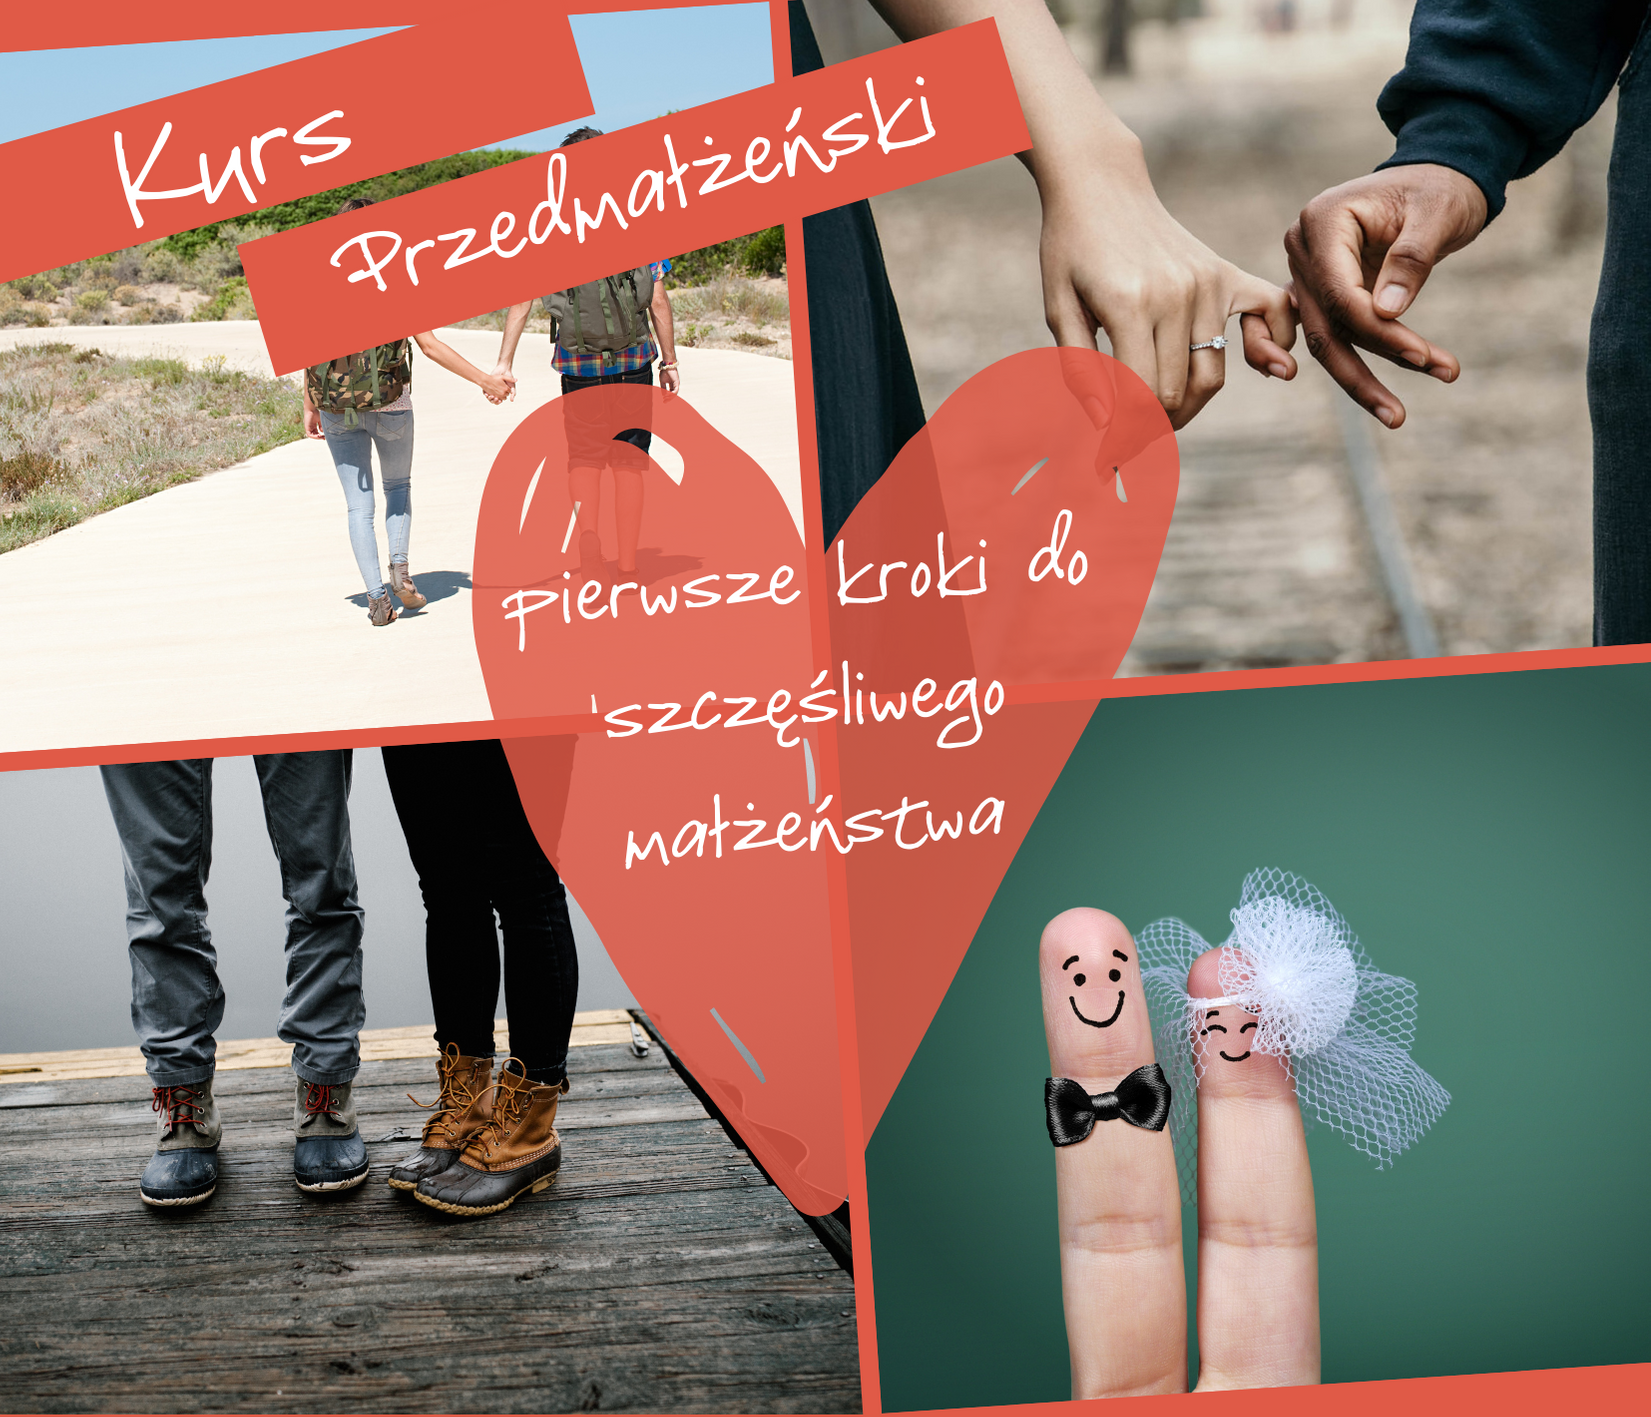
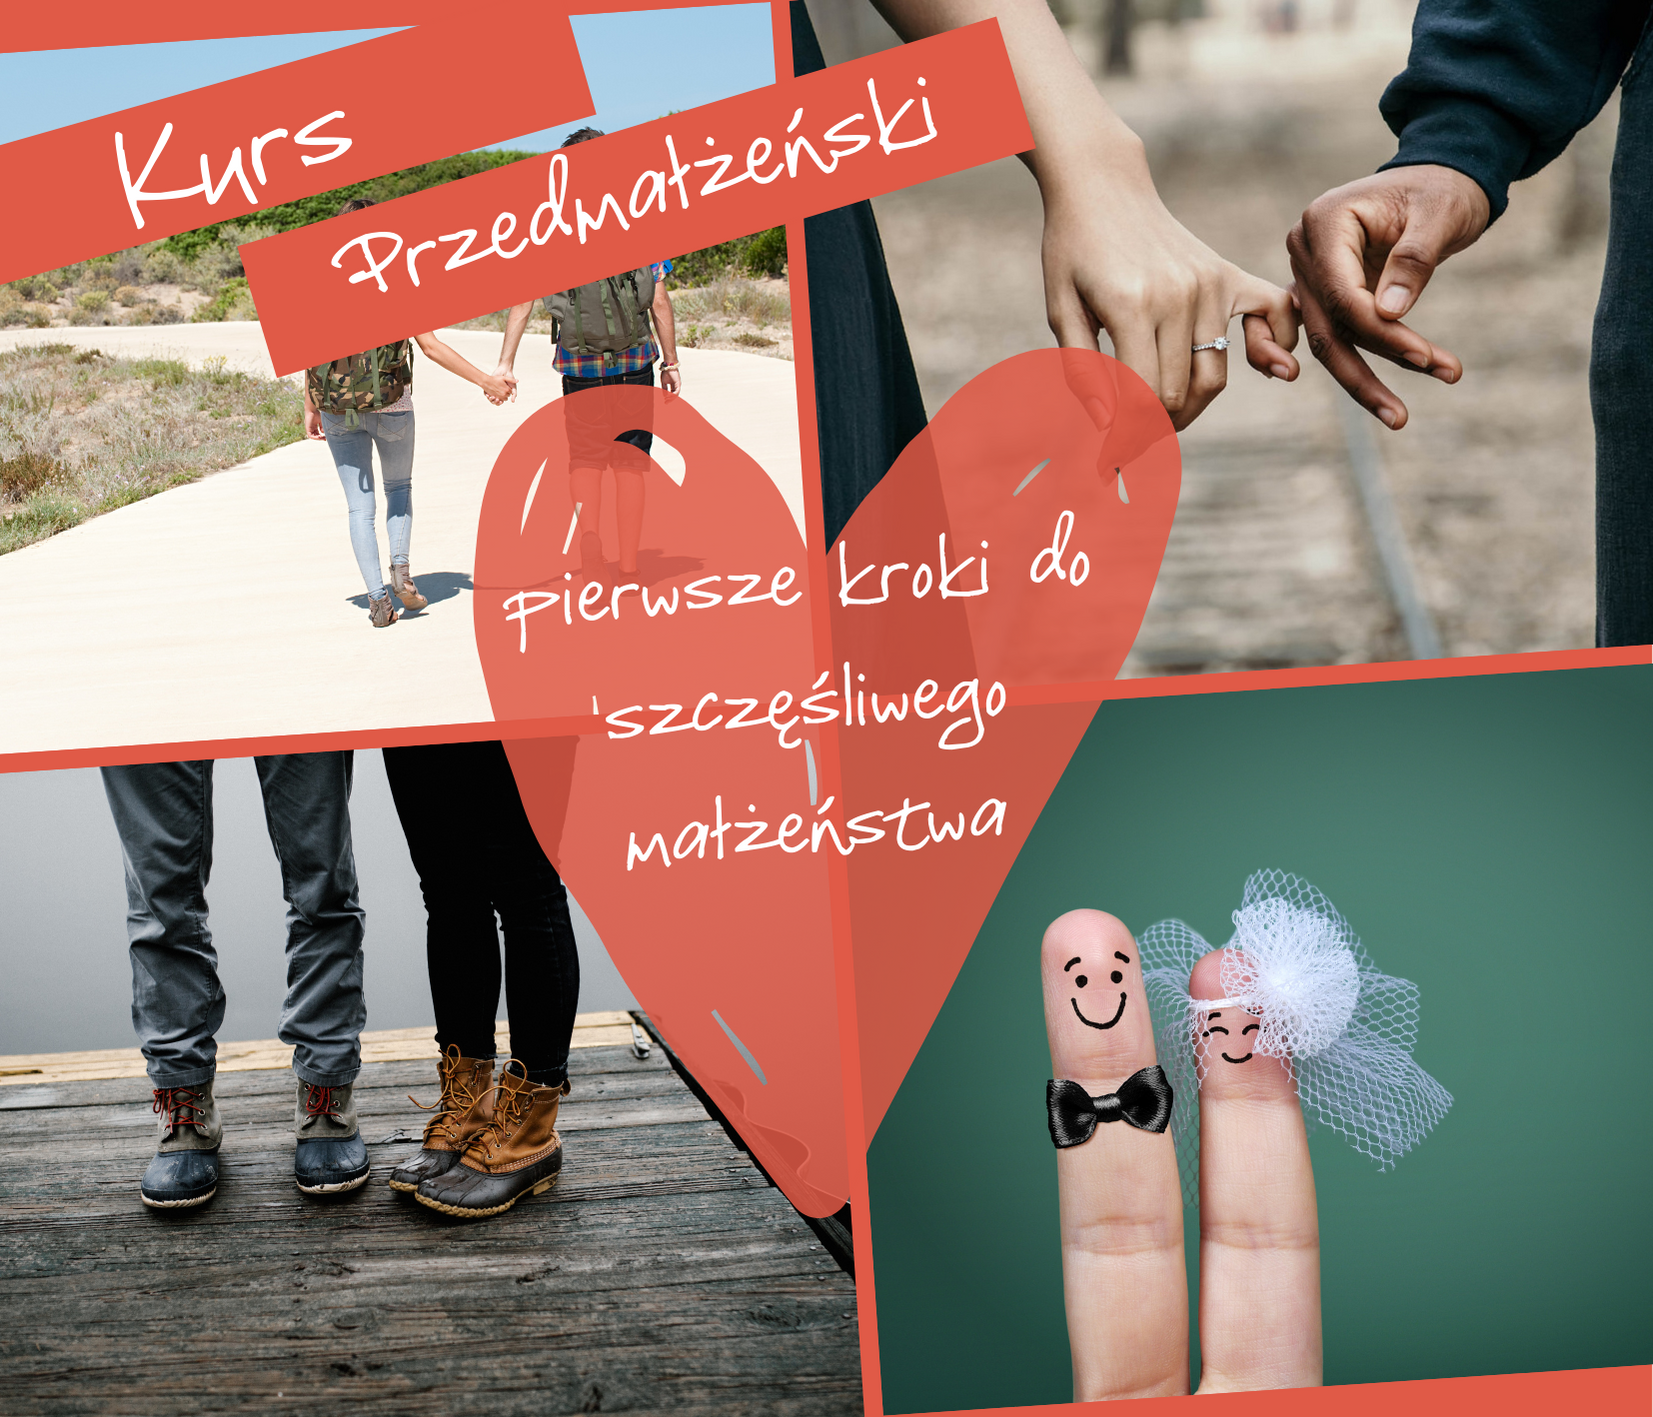
Create artykuł “kurs_przedmalzenski/index_1”

diff --git a/content/articles/kurs_przedmalzenski/index_1.md b/content/articles/kurs_przedmalzenski/index_1.md
@@ -1,0 +1,21 @@
+---
+type: article
+title: Kurs przedmałżeński
+date: 2022-01-22T12:00:06.473Z
+eventDate: 2022-02-21T18:45:00.000Z
+author: parafia wesoła
+cover: 1.png
+---
+<!--StartFragment-->
+
+**Pierwsze kroki do szczęśliwego małżeństwa**
+
+Wszystkich narzeczonych i tych, którzy ten krok mają jeszcze przed sobą, zapraszamy na fajny kurs przedmałżeński ![🙂](https://static.xx.fbcdn.net/images/emoji.php/v9/t4c/1/16/1f642.png)
+
+* **Spotkania w poniedziałki** o 19.45 w Domu Rekolekcyjnym\
+  21 lutego, 28 lutego, 07 marca, 21 marca, 04 kwietnia, 11 kwietnia\
+  + całodzienne spotkanie: 26 marca
+
+<!--EndFragment-->
+
+<!--EndFragment-->
